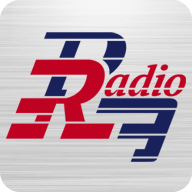
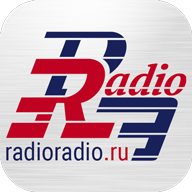
1

diff --git a/js/script.js b/js/script.js
@@ -248,9 +248,17 @@ function SmsSend(mess, phone) {
             }
         }
     );
-
 }
-
+function LogoRadioRadio() {
+    ons.notification.confirm('Перейти на веб версию RadioRadio.ru?').then(
+        function(answer) {
+            if (answer === 1) {
+				var ref = cordova.InAppBrowser.open('http://radioradio.ru', '_blank', 'location=yes');
+				window.open = cordova.InAppBrowser.open;
+            }
+        }
+    );
+}
 
 function checkConnection() {
     var networkState = navigator.connection.type;

diff --git a/index.html b/index.html
@@ -115,7 +115,7 @@
 				
 				<div class="vert_grid">
 					<div class="vert_grid_box">
-						<div class="logo"></div>
+						<div class="logo" onclick="LogoRadioRadio();"></div>
 					</div>
 					
 					<div class="vert_grid_box">
